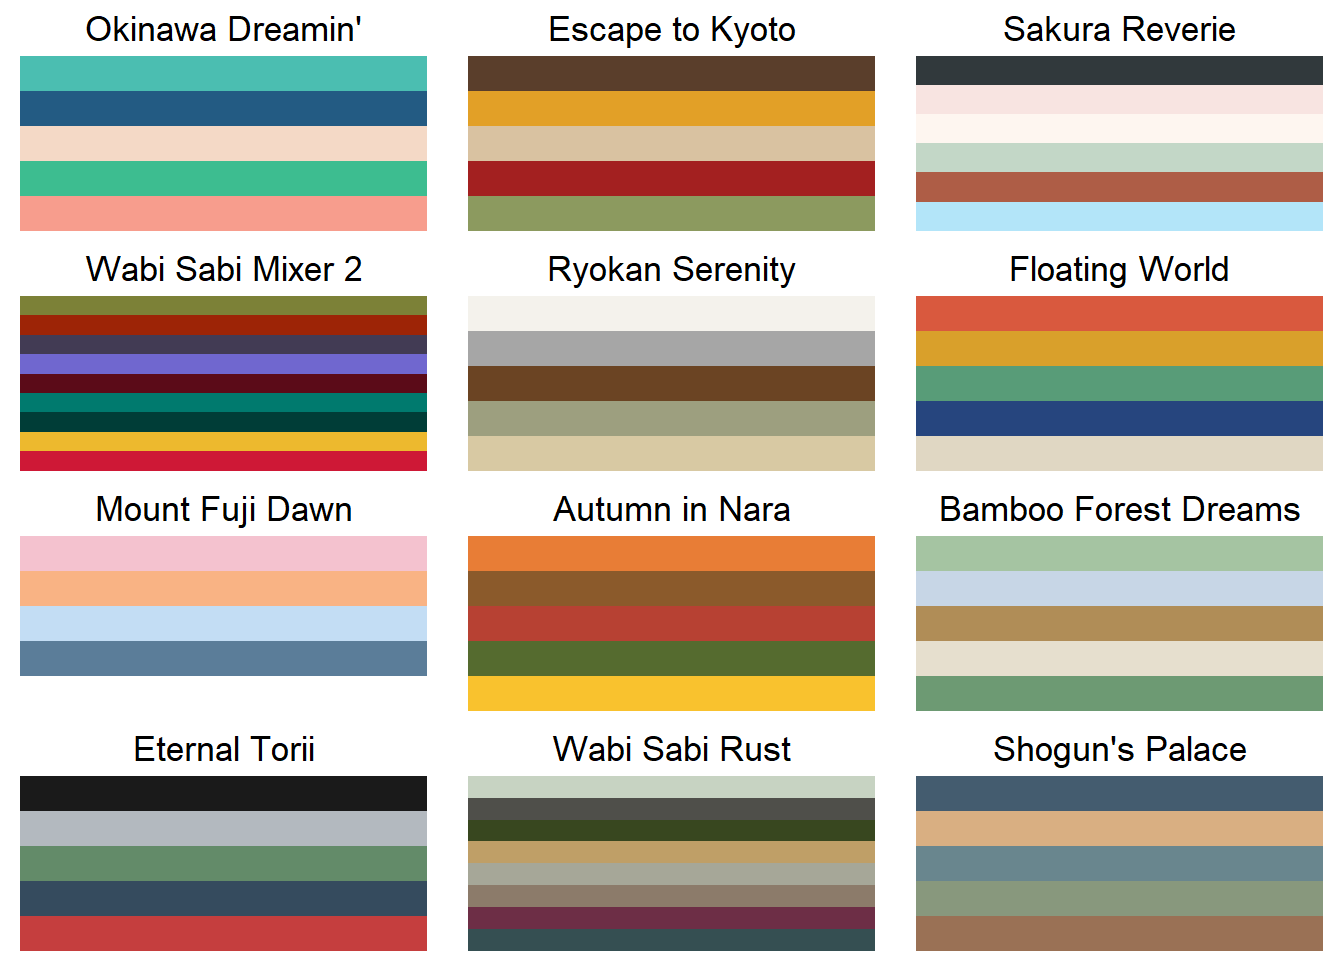
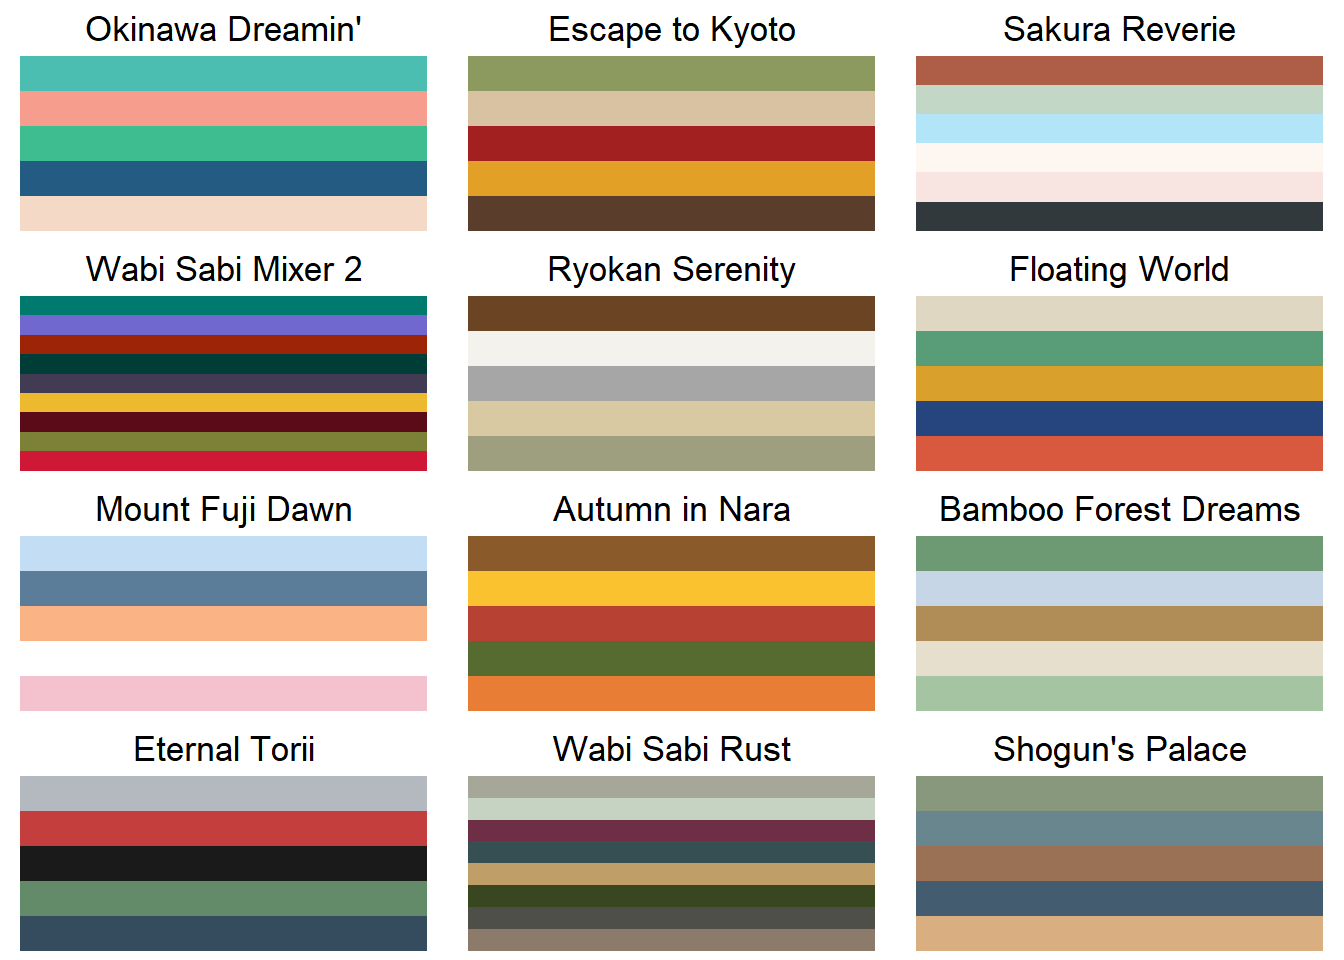
cambiecitos

diff --git a/about.html b/about.html
@@ -34,8 +34,8 @@ ul.task-list li input[type="checkbox"] {
 <link href="site_libs/quarto-html/quarto-syntax-highlighting-dark-d166b450ba5a8e9f7a0ab969bf6592c1.css" rel="prefetch" class="quarto-color-scheme quarto-color-alternate" id="quarto-text-highlighting-styles">
 <script src="site_libs/bootstrap/bootstrap.min.js"></script>
 <link href="site_libs/bootstrap/bootstrap-icons.css" rel="stylesheet">
-<link href="site_libs/bootstrap/bootstrap-25eccf580de90b1f9e40b8668b523fb7.min.css" rel="stylesheet" append-hash="true" class="quarto-color-scheme" id="quarto-bootstrap" data-mode="light">
-<link href="site_libs/bootstrap/bootstrap-dark-5d8473392d93648ac8a7a876e21ed866.min.css" rel="prefetch" append-hash="true" class="quarto-color-scheme quarto-color-alternate" id="quarto-bootstrap" data-mode="dark">
+<link href="site_libs/bootstrap/bootstrap-9d5df25e2b2b9079e02beba5abaf600f.min.css" rel="stylesheet" append-hash="true" class="quarto-color-scheme" id="quarto-bootstrap" data-mode="light">
+<link href="site_libs/bootstrap/bootstrap-dark-e30143b046ff6bc915205e1862ed9a99.min.css" rel="prefetch" append-hash="true" class="quarto-color-scheme quarto-color-alternate" id="quarto-bootstrap" data-mode="dark">
 <script id="quarto-search-options" type="application/json">{
   "language": {
     "search-no-results-text": "Sin resultados",

diff --git a/flowingFields.html b/flowingFields.html
@@ -35,8 +35,8 @@ ul.task-list li input[type="checkbox"] {
 <link href="site_libs/quarto-html/quarto-syntax-highlighting-dark-d166b450ba5a8e9f7a0ab969bf6592c1.css" rel="prefetch" class="quarto-color-scheme quarto-color-alternate" id="quarto-text-highlighting-styles">
 <script src="site_libs/bootstrap/bootstrap.min.js"></script>
 <link href="site_libs/bootstrap/bootstrap-icons.css" rel="stylesheet">
-<link href="site_libs/bootstrap/bootstrap-25eccf580de90b1f9e40b8668b523fb7.min.css" rel="stylesheet" append-hash="true" class="quarto-color-scheme" id="quarto-bootstrap" data-mode="light">
-<link href="site_libs/bootstrap/bootstrap-dark-5d8473392d93648ac8a7a876e21ed866.min.css" rel="prefetch" append-hash="true" class="quarto-color-scheme quarto-color-alternate" id="quarto-bootstrap" data-mode="dark">
+<link href="site_libs/bootstrap/bootstrap-9d5df25e2b2b9079e02beba5abaf600f.min.css" rel="stylesheet" append-hash="true" class="quarto-color-scheme" id="quarto-bootstrap" data-mode="light">
+<link href="site_libs/bootstrap/bootstrap-dark-e30143b046ff6bc915205e1862ed9a99.min.css" rel="prefetch" append-hash="true" class="quarto-color-scheme quarto-color-alternate" id="quarto-bootstrap" data-mode="dark">
 <script id="quarto-search-options" type="application/json">{
   "language": {
     "search-no-results-text": "No results",

diff --git a/index.html b/index.html
@@ -35,8 +35,8 @@ ul.task-list li input[type="checkbox"] {
 <link href="site_libs/quarto-html/quarto-syntax-highlighting-dark-d166b450ba5a8e9f7a0ab969bf6592c1.css" rel="prefetch" class="quarto-color-scheme quarto-color-alternate" id="quarto-text-highlighting-styles">
 <script src="site_libs/bootstrap/bootstrap.min.js"></script>
 <link href="site_libs/bootstrap/bootstrap-icons.css" rel="stylesheet">
-<link href="site_libs/bootstrap/bootstrap-25eccf580de90b1f9e40b8668b523fb7.min.css" rel="stylesheet" append-hash="true" class="quarto-color-scheme" id="quarto-bootstrap" data-mode="light">
-<link href="site_libs/bootstrap/bootstrap-dark-5d8473392d93648ac8a7a876e21ed866.min.css" rel="prefetch" append-hash="true" class="quarto-color-scheme quarto-color-alternate" id="quarto-bootstrap" data-mode="dark">
+<link href="site_libs/bootstrap/bootstrap-9d5df25e2b2b9079e02beba5abaf600f.min.css" rel="stylesheet" append-hash="true" class="quarto-color-scheme" id="quarto-bootstrap" data-mode="light">
+<link href="site_libs/bootstrap/bootstrap-dark-e30143b046ff6bc915205e1862ed9a99.min.css" rel="prefetch" append-hash="true" class="quarto-color-scheme quarto-color-alternate" id="quarto-bootstrap" data-mode="dark">
 <script id="quarto-search-options" type="application/json">{
   "language": {
     "search-no-results-text": "Sin resultados",

diff --git a/strangerEarths.html b/strangerEarths.html
@@ -35,8 +35,8 @@ ul.task-list li input[type="checkbox"] {
 <link href="site_libs/quarto-html/quarto-syntax-highlighting-dark-d166b450ba5a8e9f7a0ab969bf6592c1.css" rel="prefetch" class="quarto-color-scheme quarto-color-alternate" id="quarto-text-highlighting-styles">
 <script src="site_libs/bootstrap/bootstrap.min.js"></script>
 <link href="site_libs/bootstrap/bootstrap-icons.css" rel="stylesheet">
-<link href="site_libs/bootstrap/bootstrap-25eccf580de90b1f9e40b8668b523fb7.min.css" rel="stylesheet" append-hash="true" class="quarto-color-scheme" id="quarto-bootstrap" data-mode="light">
-<link href="site_libs/bootstrap/bootstrap-dark-5d8473392d93648ac8a7a876e21ed866.min.css" rel="prefetch" append-hash="true" class="quarto-color-scheme quarto-color-alternate" id="quarto-bootstrap" data-mode="dark">
+<link href="site_libs/bootstrap/bootstrap-9d5df25e2b2b9079e02beba5abaf600f.min.css" rel="stylesheet" append-hash="true" class="quarto-color-scheme" id="quarto-bootstrap" data-mode="light">
+<link href="site_libs/bootstrap/bootstrap-dark-e30143b046ff6bc915205e1862ed9a99.min.css" rel="prefetch" append-hash="true" class="quarto-color-scheme quarto-color-alternate" id="quarto-bootstrap" data-mode="dark">
 <script id="quarto-search-options" type="application/json">{
   "language": {
     "search-no-results-text": "No results",

diff --git a/wabiSabi_journey_to_theEast.html b/wabiSabi_journey_to_theEast.html
@@ -183,7 +183,7 @@ gtag('config', 'G-VMG6412QZY', { 'anonymize_ip': true});
 <h3 data-anchor-id="proceso-técnico">Proceso técnico</h3>
 <p>El algoritmo para generar las piezas utiliza:</p>
 <ol type="1">
-<li><p><strong>Simulación de acuarela generativa</strong>: Basada en la técnica descrita por <a href="https://www.tylerxhobbs.com/words/a-guide-to-simulating-watercolor-paint-with-generative-art">Tyler Hobbs</a>, replicando cómo el pigmento interactúa con el papel.</p></li>
+<li><p><strong>Simulación de acuarela</strong>: Basada en la técnica descrita por <a href="https://www.tylerxhobbs.com/words/a-guide-to-simulating-watercolor-paint-with-generative-art">Tyler Hobbs</a>, replicando cómo el pigmento interactúa con el papel.</p></li>
 <li><p><strong>Capas de flow fields</strong>: Patrones fluidos generados para las líneas utilizando <em>Perlin noise</em>, creando curvas suaves y naturales. El proceso funciona de la siguiente manera, se calcula un flow field según el parámetro de capas, y se elije una línea de corte para cada capa. Luego se filtran solo las líneas que no se superponen con la capa previa. A su vez las capaz puede tener menor opacidad a medida que se acercan al horizonte.</p></li>
 </ol>
 <p>El algoritmo está implementado en <strong>R</strong>, mientras que el cálculo de los flow fields se realiza en <strong>C++</strong> usando el paquete Rcpp, permitiendo una mezcla eficiente de lenguajes para lograr los efectos deseados.</p>
@@ -210,7 +210,7 @@ gtag('config', 'G-VMG6412QZY', { 'anonymize_ip': true});
 </section>
 <section id="adquiere-tu-obra" class="level3">
 <h3 data-anchor-id="adquiere-tu-obra">Adquiere tu obra</h3>
-<p>Cada obra de esta colección es única, creada mediante un proceso generativo que combina arte y tecnología. Si deseas adquirir un ejemplar de esta serie, por favor, visita nuestra <a href="#">tienda online</a> o contáctanos directamente para más información.</p>
+<p>Cada obra de esta colección es única, creada mediante un proceso generativo que combina arte y tecnología. Si deseas adquirir un ejemplar de esta serie, puedes comunicarte conmigo a través de mi mail <a href="mailto:[email redacted]">[email redacted]</a>.</p>
 <p><br></p>
 </section>
 </div>